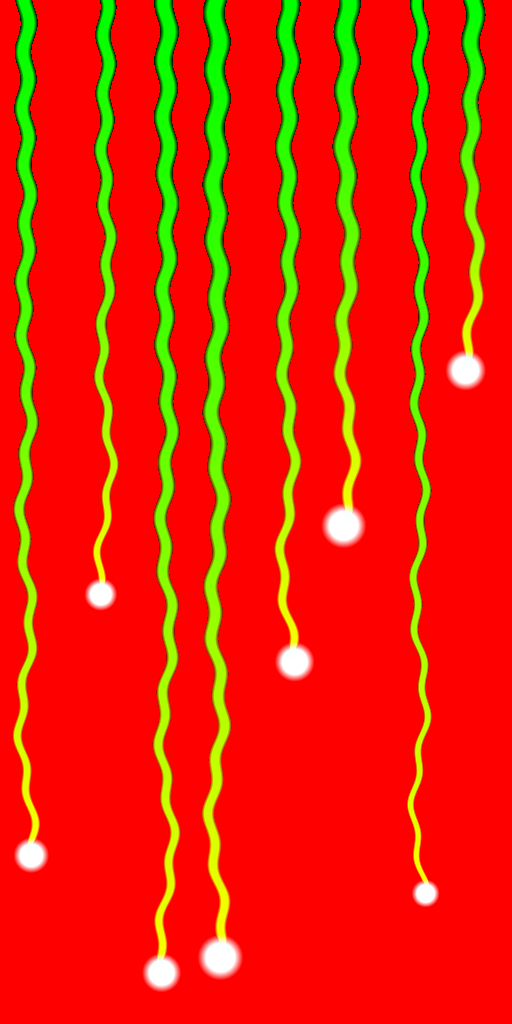
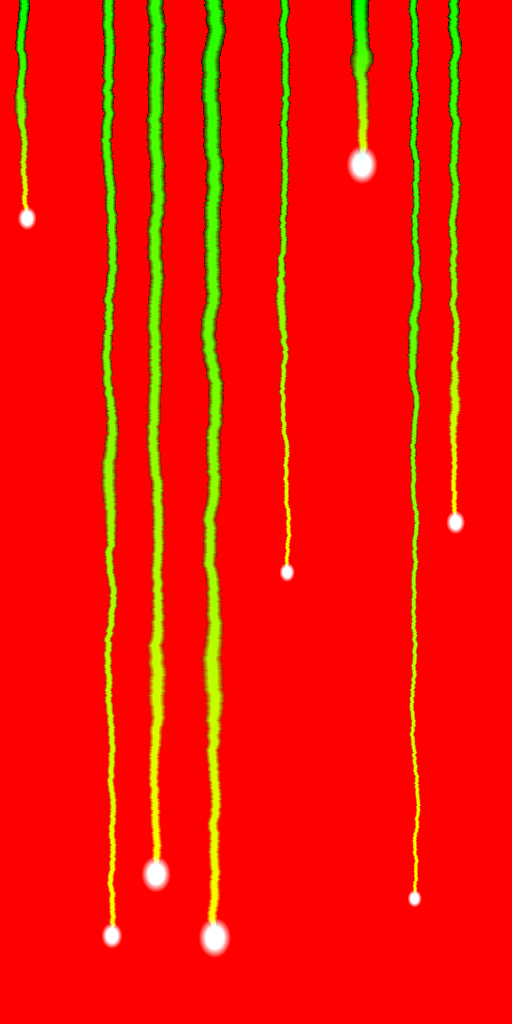
blood: Phase D drips that run, and the Phase F look sheet
A heavy wall mark (a headshot's mass; a close impact half the time) now
runs: a quad hung under the mark (shaders/blood_run.gdshader) scrolls the
drip mask's reveal channel over 3-7 s, fast then slowing - each run
wanders down at its own pace, starts a little after the last, some short,
a glistening head on its front and a bead where it stops - then dries with
the rest. The mask is regenerated (random-walk wander, varied widths and
swells, soft edges, start delays). 24 live; the oldest is baked to a
dripfield decal when its quad is needed; clear() ends them.

test_blood +5 (48, 0 failed); test_pools 0. look_blood --runs renders the
moments. docs/reference/blood_phase_c/phase_f_sheet.png collects the look
for his eye. BLOOD_OVERHAUL_PLAN.md sections 16-17: A-D and F built, E
parked, the knobs listed.

Claude-Session: https://claude.ai/code/session_01G887uisKmon25i3LWazTe9

diff --git a/tools/gen_blood_splatters_v2.py b/tools/gen_blood_splatters_v2.py
@@ -464,7 +464,10 @@ def gen_small(i):
 def gen_dripmask(out_dir):
     """Phase D's animated runs: R = time of arrival (0 at the top of each run,
     1 at its end), G = the run's shape (coverage), B = the bead's growth.
-    Eight runs across a 512 x 1024 texture; the shader shows G where R < t."""
+    Eight runs across a 512 x 1024 texture; the shader shows G where R < t.
+    (25 Nov) Runs wander as a random walk, not a sine; widths vary 3-9 px and
+    swell where the run slows; each starts a little later than the last (an
+    R offset) and some are short; the edges are soft."""
     W, H = 512, 1024
     rmap = np.ones((H, W), dtype=np.float32)
     gmap = np.zeros((H, W), dtype=np.float32)
@@ -472,22 +475,27 @@ def gen_dripmask(out_dir):
     yy, xx = np.mgrid[0:H, 0:W]
     g = np.random.default_rng(5)
     for k in range(8):
-        x = W * (k + 0.5) / 8 + g.normal(0, 8)
-        length = g.uniform(H * 0.35, H * 0.95)
-        width = g.uniform(5, 11)
-        ph = g.random() * 6.28
+        x = W * (k + 0.5) / 8 + g.normal(0, 10)
+        length = g.uniform(H * 0.25, H * 0.95) if g.random() < 0.8 else g.uniform(H * 0.12, H * 0.3)
+        width = g.uniform(3.0, 9.0)
+        delay = g.uniform(0.0, 0.22)                  # starts a little after the first
+        drift = 0.0
+        swell_at = g.uniform(0.3, 0.8)
         for yi in range(int(length)):
-            s = yi / length
-            xc = x + 7 * math.sin(yi * 0.03 + ph) * s + 3 * math.sin(yi * 0.11 + ph * 3)
-            w = width * (1.0 - 0.5 * s)
+            s_ = yi / length
+            drift += g.normal(0, 0.35)
+            drift *= 0.985                           # a slow wander, not a zigzag
+            xc = x + drift
+            w = width * (1.0 - 0.45 * s_) * (1.0 + 0.6 * math.exp(-((s_ - swell_at) / 0.06) ** 2))
             d = np.abs(xx[yi] - xc)
-            cov = np.clip(1.0 - (d - w * 0.6) / (w * 0.5), 0, 1)
+            cov = np.clip(1.0 - (d - w * 0.45) / (w * 0.75), 0, 1)       # soft edge
             gmap[yi] = np.maximum(gmap[yi], cov)
-            rmap[yi] = np.where(cov > 0.05, np.minimum(rmap[yi], s ** 1.2), rmap[yi])
-        # the bead
-        bx = x + 7 * math.sin(length * 0.03 + ph)
-        d = np.sqrt((xx - bx) ** 2 + (yy - length) ** 2)
-        bead = np.clip(1.0 - (d - width * 1.4) / (width * 0.8), 0, 1)
+            arrive = delay + (1.0 - delay) * s_ ** 1.15
+            rmap[yi] = np.where(cov > 0.05, np.minimum(rmap[yi], arrive), rmap[yi])
+        # the bead at rest
+        bx = x + drift
+        d = np.sqrt((xx - bx) ** 2 + ((yy - length) * 0.8) ** 2)
+        bead = np.clip(1.0 - (d - width * 1.1) / (width * 0.9), 0, 1)
         bmap = np.maximum(bmap, bead)
         gmap = np.maximum(gmap, bead)
         rmap = np.where(bead > 0.05, np.minimum(rmap, 1.0), rmap)
@@ -509,6 +517,11 @@ def main():
             rng = np.random.default_rng(int(args[i + 1])); i += 2
         elif args[i] == "--sheet":
             sheet = args[i + 1]; i += 2
+        elif args[i] == "--dripmask":
+            os.makedirs(out_dir, exist_ok=True)
+            gen_dripmask(out_dir)
+            print("wrote drip_mask")
+            return
         else:
             out_dir = args[i]; i += 1
     os.makedirs(out_dir, exist_ok=True)

diff --git a/docs/BLOOD_OVERHAUL_PLAN.md b/docs/BLOOD_OVERHAUL_PLAN.md
@@ -385,3 +385,36 @@ floor drips** in the 6 s after (were 12 and ~190). Thigh: 0–1 limb plume, 0 wa
 Tests: `test_blood` 43/0, `test_impacts` 0, `test_blast` 0, `test_rifle` 0, `test_killcam` 0,
 `test_legs` 0, `test_throat` the baseline 2 (hands), `test_revolver` the baseline 1 (rate),
 `test_limbs` its known flaky pistol/explosion checks.
+
+## 16. Phase D — drips that run — done 25 Nov
+A heavy on a wall (a headshot's mass) — and a close impact on a wall half the time — now **runs**:
+`start_run` hangs a quad under the mark (`shaders/blood_run.gdshader`, a few millimetres off the
+wall, hung from its top edge which sits inside the mass) and over 3–7 s (`RUN_TIME`, fast then
+slowing) scrolls the drip mask's reveal channel: each run wanders down at its own pace, starting a
+little after the last, some short, with a glistening head riding its front and a bead where it
+stops; then it dries with the rest (tint and gloss over `DRY_TIME`). The mask was regenerated
+(`gen_blood_splatters_v2.py --dripmask`): a random-walk wander instead of a sine zigzag, widths
+3–9 px with a swell where the run slows, soft edges, per-run start delays. 24 runs live at once;
+when a quad is needed again the oldest is **baked to a dripfield decal** so a dried run stays as a
+mark; `clear()` ends them. Tests: `test_blood` +5 (a headshot's heavy starts a run; its quad hangs
+on the wall facing out; the run advances over the seconds; a body mist starts none; the 25th run
+bakes the oldest; clear ends them) — 48 checks, 0 failed; `test_pools` 0. Look: `look_blood --runs`
+(`runs_2s.png`, `runs_8s.png`). Skipped: a run on sloped or bumpy walls follows the quad, not the
+bumps (sandbags) — fine at a glance, a decal-based run would need a per-kind decal animation Godot
+does not offer.
+
+## 17. Phase F — the look room — sheet made 25 Nov, his eye next
+`docs/reference/blood_phase_c/phase_f_sheet.png`: the six wall regimes at their restrained sizes,
+the headshot's heavy with its runs at 2 and 8 s, the rifle plume side-on, a headshot from behind
+with the haze, and an arterial stream — all under the container's software renderer, which runs
+darker than the Mac. His references (Wolfenstein, The Last of Us, DieselFrag) are not in the repo;
+the comparison is his, in game. **Phase E stays parked** (lens, weapon and neighbour spatter: he
+said no). The world blood mask is not needed: 1,200 fading decals with priority recycling have not
+been reported short since Phase D's persistence half.
+
+### Where the overhaul stands
+A–D and F built; E parked. The knobs he is most likely to want, all in `blood_manager.gd`:
+`BODY_MARK_CHANCE 0.7`, `BODY_PLUME_CHANCE 0.5`, `LIMB_MARK_CHANCE 0.4`, `LIMB_PLUME_CHANCE 0.3`,
+`TIER_REACH {head 2.6, body 1.6, limb 1.2}`, the `_burst` ratios (head 0.3+0.45·amount, body
+0.12–0.25, limb 0.08), `RUN_TIME (3, 7)`, `maximum_pool_radius 0.5`, `DRY_TIME 50`,
+`MAX_DECALS 1200`. `scenes/probe_blood_sources.tscn` prints what a revolver kill spends.
